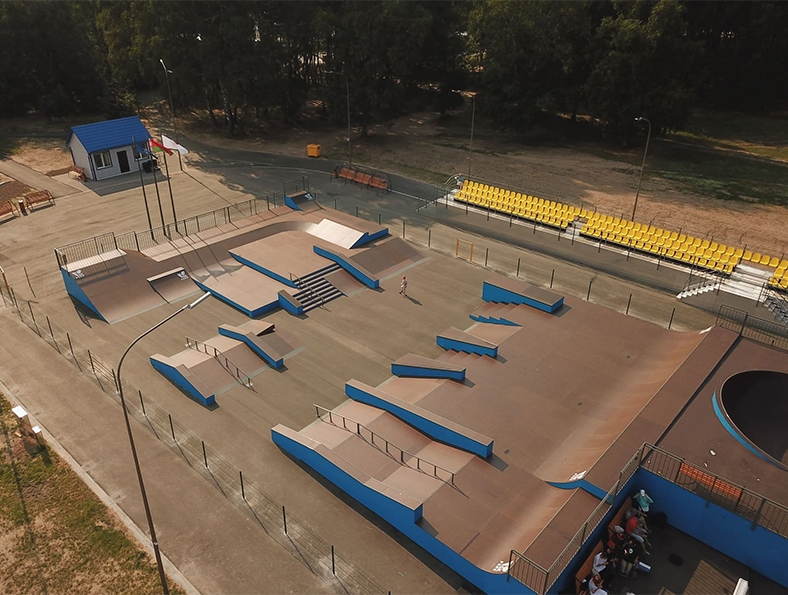
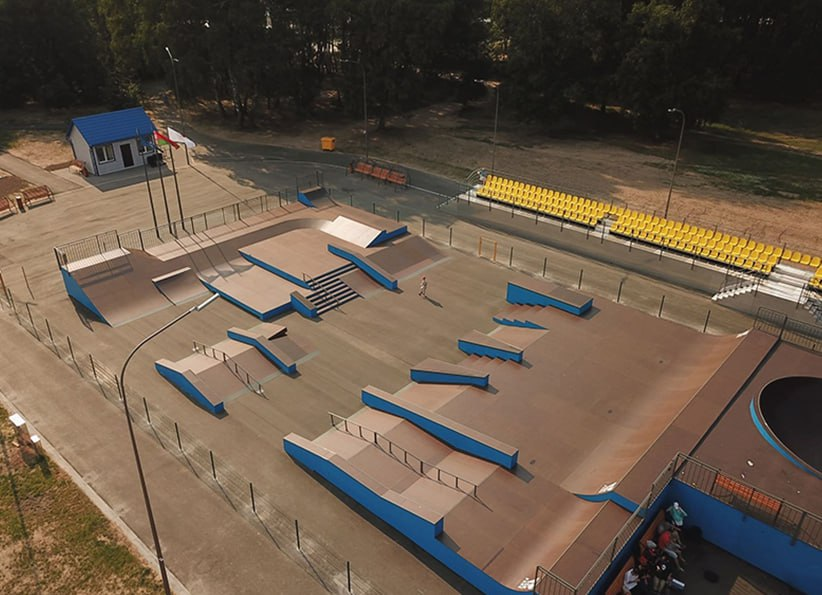
Add skatepark photos

diff --git a/src/pages/skateparks.md b/src/pages/skateparks.md
@@ -17,6 +17,8 @@ headerimage: /assets/images/belskate/skatepark2.jpg
 
 Скейтпарки различаются по площади, номенклатуре оборудования и направленности.
 
+<img src="/assets/images/belskate/skatepark3.jpg" alt="Скейтпарк" width="1000">
+
 Для формирования материально-технической базы, необходимо создание качественных скейтпарков, отвечающих уровню мастерства занимающихся, требованиям стандарта безопасности<sup><a style="text-decoration:none" id="fn-1" href="#fn">*</a></sup> и критериям организации спортивных и спортивно-массовых мероприятий, способствующих качественному досугу и росту спортивного мастерства молодежи Республики Беларусь.
 
 Мы предлагаем пакет решений для эффективной реализации проектов скейтпарков в Республике Беларусь:
